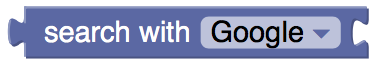
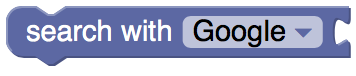
removed unused blocks, help page clean-up

diff --git a/help.html b/help.html
@@ -196,17 +196,6 @@
             For a more indepth look at set funtions, please visit the Blockly help page:  
             <a href = "https://github.com/google/blockly/wiki/Variables#set" target="_blank">Blockly Help</a>
           </p>
-          <a class="anchor" id="list_create_with"></a>
-          <b>Create List With     </b>
-          <img src="Block_Images/createList.png" alt="Block_Images/createList.png not found" width="135" height="75">
-          <p class="tab2">
-            The create list with block allows the user to specify the initial values in a new list. It is less common, but
-            possible, to create a list with values of different types. To change the number of inputs, click on the gear icon.
-          </p>
-          <p class="tab1">
-            For a more indepth look at print, please visit the Blockly help page:  
-            <a href = "https://github.com/google/blockly/wiki/Lists#create-list-with" target="_blank">Blockly Help</a>
-          </p>
         </div>
 <!--
     - Add blocks from the Bolck Editor "Requests" tab here
@@ -235,28 +224,6 @@
             <p class="tab1">
               - example: http://www.your_web_site.com/your_extensions
             </p>
-<!--
-          <a class="anchor" id="https_get"></a>
-          <b>https GET     </b>
-          <img src="Block_Images/httpsGet.png" alt="Block_Images/httpsGet.png not found" width="180" height="40">
-          <p class="tab2">
-            This block sends an HTTPs GET request to the URL you specify. The entire URL must be entered.
-            <p class="tab1">
-              - example: https://www.your_web_site.com
-            </p>
-          </p>
-          <a class="anchor" id="https_put"></a>
-          <b>https PUT     </b>
-          <img src="Block_Images/httpsPut.png" alt="Block_Images/httpsPut.png not found" width="180" height="40">
-          <p class="tab2">
-            This block sends an HTTP PUT request to the URL you specify. Attach the message to be sent by connecting a 
-            <a href="#message">Message</a> block to the right of the http PUT block. The entire 
-            URL must be entered
-            <p class="tab1">
-              - example: https://www.your_web_site.com
-            </p>
-          </p>
--->
         </div>
 <!--
     - Add blocks from the Bolck Editor "Chatbot" tab here
@@ -316,30 +283,6 @@
             This block maikes the chatbot wait for the user to enter a response. Add this block after any <a href="#response">Response</a> 
             or <a href="#question_block">Question</a> blocks.
           </p>
-<!--
-          <a class="anchor" id="socket_setup"></a>
-          <b>Bot Setup     </b>
-          <img src="Block_Images/botSetup.png" alt="Block_Images/botSetup.png not found" width="100" height="50">
-          <p class="tab2">
-            This block sets up all the generic properties needed for every chatbot. This is the blck that you need to start every 
-            bot with. The blocks you put inside the bot setup block will determine the funtionality of your shat bot.
-          </p>
-          <a class="anchor" id="initialize_variables"></a>
-          <b>Initialize Variables     </b>
-          <img src="Block_Images/initVars.png" alt="Block_Images/initVars.png not found" width="140" height="40">
-          <p class="tab2">
-            This is the first block you need to use in your chatbot. It creates the two variables (userResponce and validation) 
-            that each chatbot needs. Place this block as your first inside of bot setup.
-          </p>
-          <a class="anchor" id="validate"></a>
-          <b>Text/Matching List     </b>
-          <img src="Block_Images/validate.png" alt="Block_Images/validate.png not found" width="130" height="75">
-          <p class="tab2">
-            This block compares the two <a href="#message">Message</a> blocks connected to it. It returns true if they match, and 
-            false, if they do not.
-          </p>
-        </div>
--->
 <!--
     - Add blocks from the Bolck Editor "Function" tab here
     - make sure to add a .png file in the Block_Images directory

diff --git a/CustomBlocks.js b/CustomBlocks.js
@@ -175,32 +175,6 @@ Blockly.Blocks['http_put'] = {
   }
 };
 
-// Blockly.Blocks['https_get'] = {
-//   init: function() {
-//     this.appendDummyInput()
-//         .appendField(new Blockly.FieldTextInput("url for https GET request"), "url");
-//     this.setPreviousStatement(true, null);
-//     this.setNextStatement(true, null);
-//     this.setColour(230);
-//  this.setTooltip("Type URL you are requesting");
-//  this.setHelpUrl("help.html#https_get");
-//   }
-// };
-
-// Blockly.Blocks['https_put'] = {
-//   init: function() {
-//     this.appendValueInput("data")
-//         .setCheck("String")
-//         .appendField(new Blockly.FieldTextInput("the url for https PUT request"), "url");
-//     this.setInputsInline(false);
-//     this.setPreviousStatement(true, null);
-//     this.setNextStatement(true, null);
-//     this.setColour(230);
-//  this.setTooltip("Type the URL that you are sending the data to");
-//  this.setHelpUrl("help.html#https_put");
-//   }
-// };
-
 Blockly.Blocks['language'] = {
   init: function() {
     this.appendValueInput("UseriNPUT")
@@ -214,15 +188,16 @@ Blockly.Blocks['language'] = {
   }
 };
 
-Blockly.Blocks['search_function'] = {
-  init: function() {
-    this.appendValueInput("User Input")
-        .setCheck("String")
-        .appendField("search with")
-        .appendField(new Blockly.FieldDropdown([["Google","Google"], ["Bing","Bing"], ["Yahoo","Yahoo"]]), "NAME");
-    this.setOutput(true, "String");
-    this.setColour(230);
- this.setTooltip("searches the web with the selected search engine");
- this.setHelpUrl("help.html#search_function");
-  }
-};
+// Blockly.Blocks['search_function'] = {
+//   init: function() {
+//     this.appendValueInput("User Input")
+//         .setCheck("String")
+//         .appendField("search with")
+//         .appendField(new Blockly.FieldDropdown([["Google","Google"], ["Bing","Bing"], ["Yahoo","Yahoo"]]), "NAME");
+//     this.setPreviousStatement(true, null);
+//     this.setNextStatement(true, null);
+//     this.setColour(230);
+//  this.setTooltip("searches the web with the selected search engine");
+//  this.setHelpUrl("help.html#search_function");
+//   }
+// };

diff --git a/Custblockstubs.js b/Custblockstubs.js
@@ -176,30 +176,20 @@ Blockly.JavaScript['http_put'] = function(block) {
   return code;
 };
 
-// Blockly.JavaScript['https_get'] = function(block) {
+// Blockly.JavaScript['search_function'] = function(block) {
+//   var dropdown_name = block.getFieldValue('NAME');
+//   var value_userinput = Blockly.JavaScript.valueToCode(block, 'Userinput', Blockly.JavaScript.ORDER_ATOMIC);
+//   // TODO: Change ORDER_NONE to the correct strength.
+//   if(dropdown_name == "Yahoo"){
+//     var code = " var strn = 'https://search.yahoo.com/search?p='; window.open(strn.concat("+value_userinput+"));"
+//   }
+//   if(dropdown_name == "Google"){
+//     var code = " window.open('https://www.google.com/search?q='"+value_userinput+");"
+//     var code = " var strn = 'https://www.google.com/search?q='; window.open(strn.concat("+value_userinput+"));"
+//   }
+//   if(dropdown_name == "Bing"){
+//     var code = " var strn = 'https://www.bing.com/search?q='; window.open(strn.concat("+value_userinput+"));"
+//   }
 
 //   return code;
 // };
-
-// Blockly.JavaScript['https_put'] = function(block) {
-
-//   return code;
-// };
-
-Blockly.JavaScript['search_function'] = function(block) {
-  var dropdown_name = block.getFieldValue('NAME');
-  var value_userinput = Blockly.JavaScript.valueToCode(block, 'Userinput', Blockly.JavaScript.ORDER_ATOMIC);
-  // TODO: Change ORDER_NONE to the correct strength.
-  if(dropdown_name == "Yahoo"){
-    var code = " var strn = 'https://search.yahoo.com/search?p='; window.open(strn.concat("+value_userinput+"));"
-  }
-  if(dropdown_name == "Google"){
-     var code = " window.open('https://www.google.com/search?q='"+value_userinput+");"
-     var code = " var strn = 'https://www.google.com/search?q='; window.open(strn.concat("+value_userinput+"));"
-  }
-  if(dropdown_name == "Bing"){
-    var code = " var strn = 'https://www.bing.com/search?q='; window.open(strn.concat("+value_userinput+"));"
-  }
-
-  return code;
-};

diff --git a/index.html b/index.html
@@ -118,7 +118,7 @@
               }
             </script>
             <script src="http://translate.google.com/translate_a/element.js?cb=googleTranslateElementInit"></script>
-            <input type="button" value="Spell Check in a Dialog" onclick="$Spelling.SpellCheckInWindow('chat-input')" />
+            <!--<input type="button" value="Spell Check in the Dialog" onclick="$Spelling.SpellCheckInWindow('chat-input')" />-->
           </div>
         </div>
       </div>
@@ -140,8 +140,8 @@
         </div>
         <div class="modal-body">
           <p class="modal-text">
-            To put your new chatbot to your own website, paste these two script tags into the header of the page, then put the div wherever you want your chatbot to show up! Remember, your chatbot will be whatever size you set the div to be.
-
+            To put your new chatbot to your own website, paste these two script tags into the header of the page, then put the div 
+            wherever you want your chatbot to show up! Remember, your chatbot will be whatever size you set the div to be.
           </p>
           <h5 class="modal-header">Scripts <span id="copyScripts" class="copy-button">copy</span></h5>
           <div id="scriptsToCopy" class="modal-holder">

diff --git a/index.js b/index.js
@@ -2,12 +2,12 @@
 var BLOCKS = {
   categories: [{
       name: 'Basic',
-      blocks: ['controls_whileUntil', 'text', 'text_print', 'controls_if', 'logic_boolean', 'logic_compare', 'variables_get', 'variables_set', 'lists_create_with'],
+      blocks: ['controls_whileUntil', 'text', 'text_print', 'controls_if', 'logic_boolean', 'logic_compare', 'variables_get', 'variables_set'],
       color: '210'
     },
     {
       name: 'Requests',
-      blocks: ['http_get', 'http_put', /*'https_get', 'https_put'*/ ],
+      blocks: [],
       color: '80'
     },
     {
@@ -17,7 +17,7 @@ var BLOCKS = {
     },
     {
       name: 'Function',
-      blocks: ['search_function', 'language'],
+      blocks: [],
       color: '50'
     }
 
